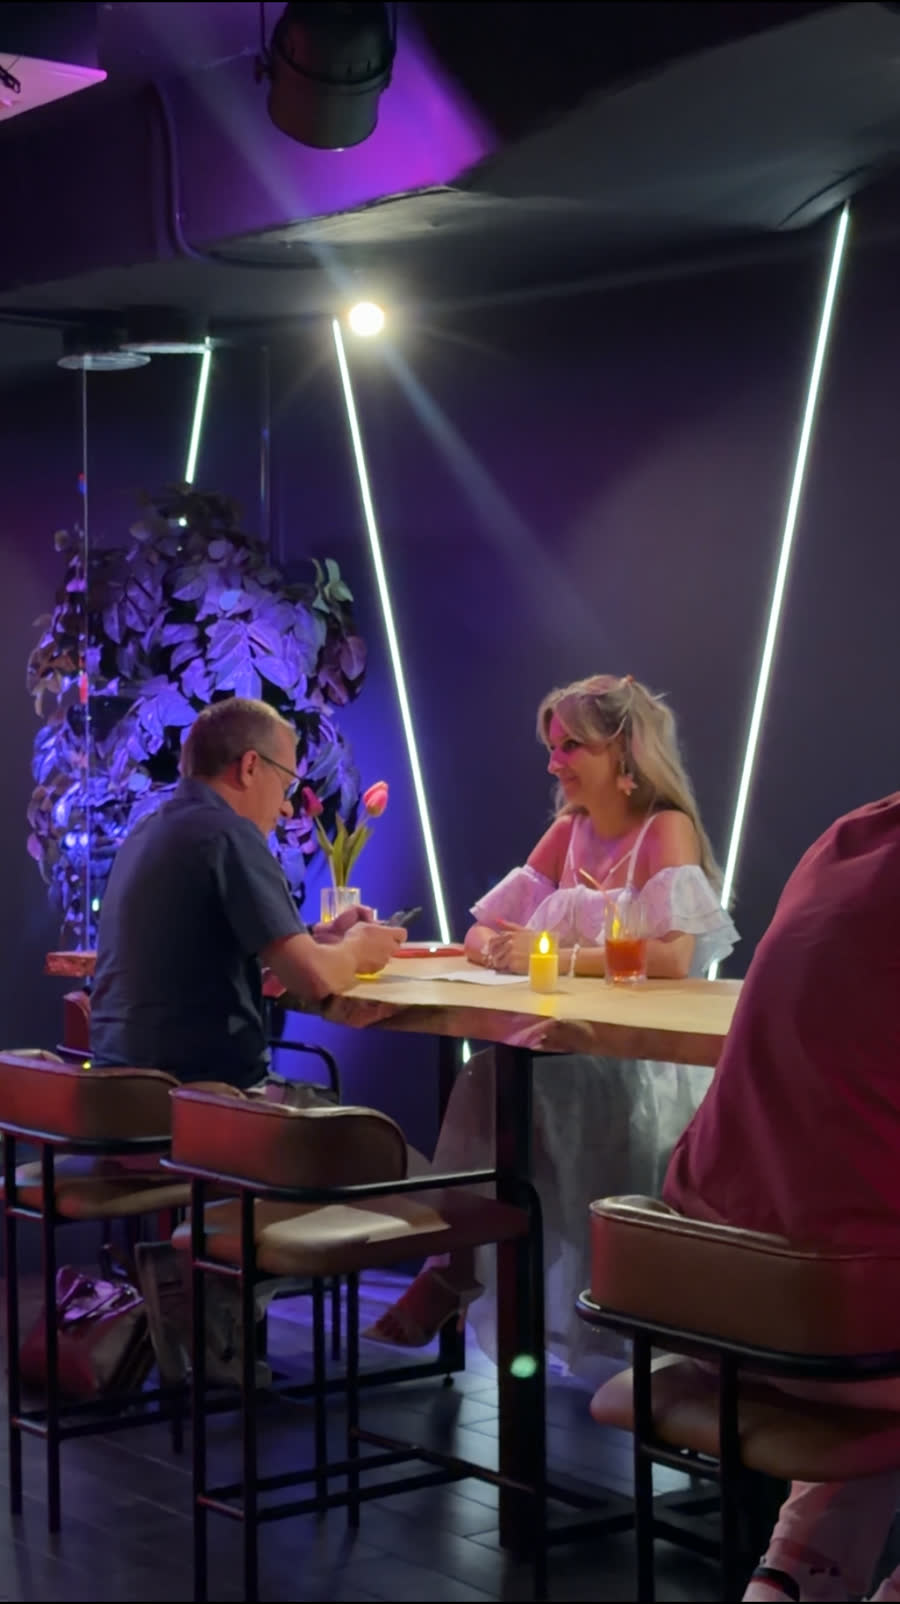
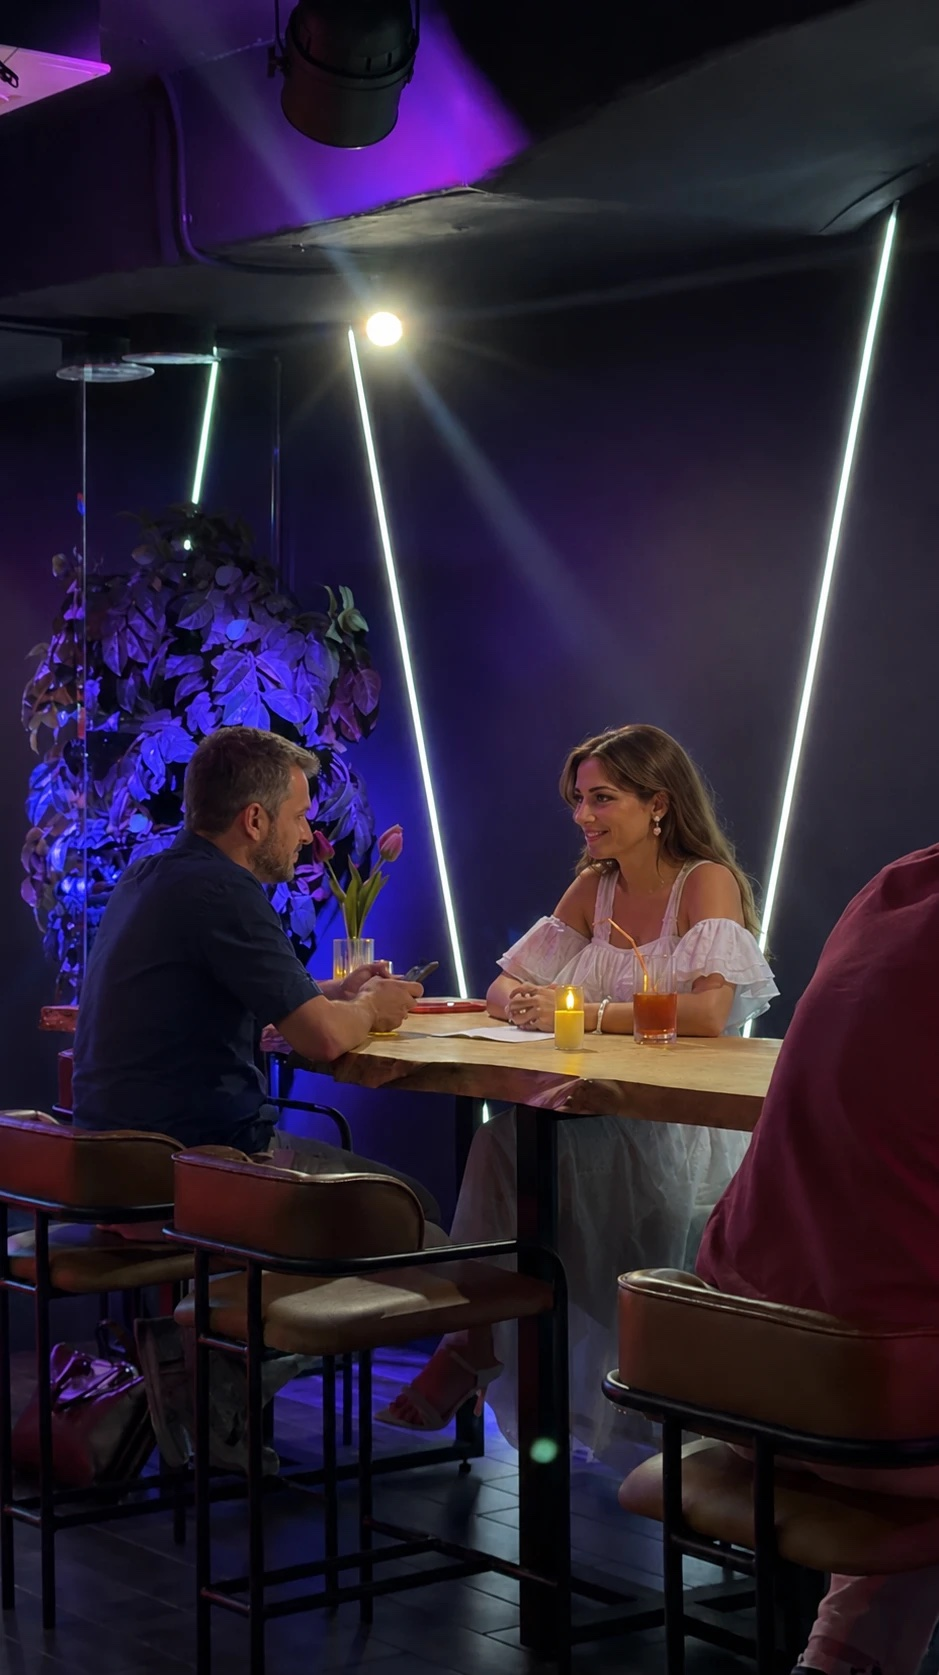
ad

diff --git a/index.html b/index.html
@@ -26,7 +26,7 @@
   <link rel="preconnect" href="https://fonts.googleapis.com">
   <link rel="preconnect" href="https://fonts.gstatic.com" crossorigin>
   <link href="https://fonts.googleapis.com/css2?family=Inter:wght@400;500;600;700&display=swap" rel="stylesheet">
-  <link rel="stylesheet" href="styles.css?v=20260811d">
+  <link rel="stylesheet" href="styles.css?v=20260812a">
   <script type="application/ld+json">
   {
     "@context": "https://schema.org",
@@ -80,7 +80,10 @@ _tmr.push({id: "3786513", type: "pageView", start: (new Date()).getTime()});
   <section class="hero">
     <div class="container hero__inner">
       <div class="hero__copy">
-      <h1>Быстрые свидания<br>в Ростове-на-Дону</h1>
+      <h1>
+        <span class="hero__title-desktop">Быстрые свидания<br>в Ростове-на-Дону</span>
+        <span class="hero__title-mobile">Один вечер — <em>десять знакомств</em> вживую</span>
+      </h1>
       <p class="hero__lead">
         За вечер вы общаетесь один на один с 10–15 участниками своего возраста —
         по пять минут с каждым. После вечера мы передаём контакты тем, кто понравился
@@ -125,61 +128,41 @@ _tmr.push({id: "3786513", type: "pageView", start: (new Date()).getTime()});
     <div class="container">
       <header class="section-head">
         <h2 id="dates-title">Ближайшие мероприятия</h2>
-        <p class="section-head__sub">Все вечера проходят в баре-ресторане GasGas, Кировский проспект, 51</p>
+        <p class="section-head__sub">Начало в 19:00, участие 2 300 ₽ · бар GasGas, Кировский проспект, 51</p>
       </header>
 
       <div class="dates__grid">
 
         <article class="event event--next">
-          <p class="event__flag">ближайший вечер</p>
-          <div class="event__head">
-            <p class="event__date"><b>15 августа</b><span>суббота</span></p>
-            <p class="event__age">35–55 лет</p>
+          <div class="event__info">
+            <p class="event__date"><b>15 августа</b><span>суббота · <span class="u-nowrap">35–55 лет</span></span></p>
+            <p class="event__status" data-availability="aug15">уточняйте наличие мест</p>
           </div>
-          <dl class="event__rows">
-            <div><dt>Начало</dt><dd>19:00</dd></div>
-            <div><dt>Место</dt><dd>GasGas, Кировский, 51</dd></div>
-            <div><dt>Участие</dt><dd><b>2 300 ₽</b></dd></div>
-            <div><dt>Места</dt><dd class="event__status" data-availability="aug15">уточняйте наличие мест</dd></div>
-          </dl>
-          <button class="btn btn--primary event__btn" type="button" data-open-booking data-event="aug15">Записаться на 15 августа</button>
+          <button class="btn btn--primary event__btn" type="button" data-open-booking data-event="aug15" aria-label="Записаться на 15 августа">Записаться</button>
         </article>
 
         <article class="event">
-          <div class="event__head">
-            <p class="event__date"><b>21 августа</b><span>пятница</span></p>
-            <p class="event__age">22–35 лет</p>
+          <div class="event__info">
+            <p class="event__date"><b>21 августа</b><span>пятница · <span class="u-nowrap">22–35 лет</span></span></p>
+            <p class="event__status" data-availability="aug21">уточняйте наличие мест</p>
           </div>
-          <dl class="event__rows">
-            <div><dt>Начало</dt><dd>19:00</dd></div>
-            <div><dt>Место</dt><dd>GasGas, Кировский, 51</dd></div>
-            <div><dt>Участие</dt><dd><b>2 300 ₽</b></dd></div>
-            <div><dt>Места</dt><dd class="event__status" data-availability="aug21">уточняйте наличие мест</dd></div>
-          </dl>
-          <button class="btn btn--outline event__btn" type="button" data-open-booking data-event="aug21">Записаться на 21 августа</button>
+          <button class="btn btn--outline event__btn" type="button" data-open-booking data-event="aug21" aria-label="Записаться на 21 августа">Записаться</button>
         </article>
 
         <article class="event">
-          <div class="event__head">
-            <p class="event__date"><b>22 августа</b><span>суббота</span></p>
-            <p class="event__age">22–35 лет</p>
+          <div class="event__info">
+            <p class="event__date"><b>22 августа</b><span>суббота · <span class="u-nowrap">22–35 лет</span></span></p>
+            <p class="event__status" data-availability="aug22">уточняйте наличие мест</p>
           </div>
           <p class="event__note">Вечер для тех, кто занимается спортом и ведёт активный образ жизни</p>
-          <dl class="event__rows">
-            <div><dt>Начало</dt><dd>19:00</dd></div>
-            <div><dt>Место</dt><dd>GasGas, Кировский, 51</dd></div>
-            <div><dt>Участие</dt><dd><b>2 300 ₽</b></dd></div>
-            <div><dt>Места</dt><dd class="event__status" data-availability="aug22">уточняйте наличие мест</dd></div>
-          </dl>
-          <button class="btn btn--outline event__btn" type="button" data-open-booking data-event="aug22">Записаться на 22 августа</button>
+          <button class="btn btn--outline event__btn" type="button" data-open-booking data-event="aug22" aria-label="Записаться на 22 августа">Записаться</button>
         </article>
 
       </div>
 
       <p class="dates__note">
-        Состав каждого вечера мы собираем вручную: примерно поровну мужчин и женщин,
-        одна возрастная группа. После заявки администратор свяжется с вами, подтвердит
-        место и подскажет, как оплатить.
+        Группы собираем вручную: поровну мужчин и женщин, одна возрастная группа.
+        После заявки администратор подтвердит место и подскажет, как оплатить.
       </p>
     </div>
   </section>
@@ -227,23 +210,23 @@ _tmr.push({id: "3786513", type: "pageView", start: (new Date()).getTime()});
       </header>
       <div class="photos__grid">
         <figure class="photo">
-          <img src="media/gallery-guests.jpg" width="736" height="1600" loading="lazy" decoding="async"
-               alt="Мужчина и женщина разговаривают за столиком с тюльпанами">
+          <img src="media/gallery-date-white.jpg" width="939" height="1675" loading="lazy" decoding="async"
+               alt="Мужчина и женщина разговаривают за столиком с тюльпанами на вечере знакомств">
           <figcaption>Разговор один на один</figcaption>
         </figure>
         <figure class="photo">
-          <img src="media/gallery-room-wide.jpg" width="900" height="1572" loading="lazy" decoding="async"
+          <img src="media/gallery-evening.jpg" width="738" height="1600" loading="lazy" decoding="async"
+               alt="Участники вечера знакомств общаются в лаунж-зоне бара">
+          <figcaption>Общение в лаунж-зоне</figcaption>
+        </figure>
+        <figure class="photo">
+          <img src="media/gallery-host.jpg" width="736" height="1600" loading="lazy" decoding="async"
                alt="Зал бара во время вечера знакомств: пары сидят за отдельными столиками">
           <figcaption>Зал во время вечера</figcaption>
         </figure>
         <figure class="photo">
-          <img src="media/gallery-tables.jpg" width="787" height="1400" loading="lazy" decoding="async"
-               alt="Столик с номером 15: свеча, тюльпаны, карточка участника и ручка">
-          <figcaption>Столик с номером и карточкой для отметок</figcaption>
-        </figure>
-        <figure class="photo">
-          <img src="media/strip-4.jpg" width="736" height="920" loading="lazy" decoding="async"
-               alt="Участники вечера знакомств разговаривают за столиками">
+          <img src="media/gallery-guests.jpg" width="736" height="1600" loading="lazy" decoding="async"
+               alt="Мужчина и женщина разговаривают за столиком с тюльпанами">
           <figcaption>Разговоры за столиками</figcaption>
         </figure>
       </div>
@@ -394,12 +377,12 @@ _tmr.push({id: "3786513", type: "pageView", start: (new Date()).getTime()});
           <label class="event-option">
             <input type="radio" name="event" value="aug15">
             <span class="event-option__date">сб, 15 августа</span>
-            <span class="event-option__group">35–55 лет</span>
+            <span class="event-option__group">35–55 лет</span>
           </label>
           <label class="event-option">
             <input type="radio" name="event" value="aug21">
             <span class="event-option__date">пт, 21 августа</span>
-            <span class="event-option__group">22–35 лет</span>
+            <span class="event-option__group">22–35 лет</span>
           </label>
           <label class="event-option">
             <input type="radio" name="event" value="aug22">

diff --git a/styles.css b/styles.css
@@ -290,6 +290,26 @@ details:focus-visible {
 
 .hero h1 { margin-bottom: 18px; }
 
+/* На телефоне заголовок другой: акцентная фраза курсивной антиквой */
+.hero__title-mobile { display: none; }
+
+@media (max-width: 560px) {
+  .hero__title-desktop { display: none; }
+
+  .hero__title-mobile {
+    display: block;
+    font-family: Georgia, "Times New Roman", serif;
+    font-size: clamp(1.6rem, 6.8vw, 2.2rem);
+    line-height: 1.15;
+    letter-spacing: -0.01em;
+  }
+
+  .hero__title-mobile em {
+    font-style: italic;
+    color: var(--accent);
+  }
+}
+
 .hero__lead {
   font-size: clamp(16.5px, 2.2vw, 18.5px);
   color: var(--text-soft);
@@ -378,21 +398,28 @@ details:focus-visible {
 
 .dates__grid {
   display: grid;
-  gap: 16px;
+  gap: 10px;
+  max-width: 640px;
 }
 
-@media (min-width: 860px) {
-  .dates__grid { grid-template-columns: repeat(3, minmax(0, 1fr)); }
-}
-
-/* Карточка вечера — светло-серая плитка внутри белой панели */
+/* Карточка вечера — компактный ряд: кнопка напротив даты, подпись и статус
+   во всю ширину. Общие время, место и цена вынесены в подзаголовок секции */
 .event {
-  display: flex;
-  flex-direction: column;
-  padding: 20px;
+  display: grid;
+  grid-template-columns: minmax(0, 1fr) auto;
+  align-items: center;
+  gap: 2px 14px;
+  padding: 14px 16px;
   background: var(--surface-soft);
   border-radius: var(--radius);
 }
+
+.event__info, .event__date { display: contents; }
+
+.event__date > span,
+.event__status { grid-column: 1 / -1; }
+
+.event__btn { grid-column: 2; grid-row: 1; }
 
 /* Ближайший вечер выделен акцентной обводкой — единственный акцент в сетке */
 .event--next {
@@ -400,94 +427,47 @@ details:focus-visible {
   box-shadow: inset 0 0 0 2px var(--accent);
 }
 
-.event__flag {
-  align-self: flex-start;
-  margin-bottom: 12px;
-  padding: 5px 12px;
-  border-radius: var(--radius-pill);
-  background: var(--accent);
-  color: var(--on-accent);
-  font-size: 12.5px;
-  font-weight: 600;
-}
-
-.event__head {
-  display: flex;
-  align-items: center;
-  justify-content: space-between;
-  flex-wrap: wrap;
-  gap: 8px;
-}
-
 .event__date b {
   display: block;
-  font-size: 1.6rem;
+  font-size: 1.2rem;
   font-weight: 700;
   letter-spacing: -0.02em;
-  line-height: 1.1;
+  line-height: 1.2;
 }
 
-.event__date span {
+.event__date > span {
   display: block;
-  font-size: 14px;
+  font-size: 13.5px;
   color: var(--text-soft);
 }
-
-.event__age {
-  padding: 6px 13px;
-  border-radius: var(--radius-pill);
-  background: var(--surface);
-  color: var(--text);
-  font-size: 14px;
-  font-weight: 600;
-  white-space: nowrap;
-}
-
-.event--next .event__age { background: var(--accent); color: var(--on-accent); }
 
 .event__note {
-  margin-top: 12px;
-  font-size: 14.5px;
+  grid-column: 1 / -1;
+  margin: 0;
+  font-size: 13px;
   color: var(--text-soft);
 }
 
-/* Параметры вечера — белая плашка со скруглением вместо строк на линейках */
-.event__rows {
-  margin: 16px 0 0;
-  padding: 4px 14px;
-  background: var(--surface);
-  border-radius: var(--radius-sm);
+.u-nowrap { white-space: nowrap; }
+
+.event__status {
+  margin: 0;
+  font-size: 13px;
+  color: var(--text-soft);
 }
-
-.event__rows > div {
-  display: flex;
-  justify-content: space-between;
-  gap: 14px;
-  padding: 9px 0;
-  font-size: 15px;
-}
-
-.event__rows > div + div { border-top: 1px solid var(--line); }
-
-.event__rows dt { color: var(--text-soft); flex-shrink: 0; }
-.event__rows dd { margin: 0; text-align: right; }
-.event__rows dd b { font-weight: 600; }
-
-.event__status { color: var(--text-soft); }
 .event__status--few { color: var(--accent-strong); font-weight: 600; }
 .event__status--closed { color: var(--danger); }
 
-.event__btn { margin-top: 16px; width: 100%; }
+.event__btn { flex-shrink: 0; }
+
+/* На телефоне кнопка компактнее — дате и возрасту хватает одной строки */
+@media (max-width: 560px) {
+  .event__btn { padding: 10px 18px; min-height: 42px; font-size: 15px; }
+}
 
 /* Внутри серой плитки вторичная кнопка — белая заливка, а не контур */
 .event .btn--outline { background: var(--surface); border-color: transparent; }
 .event .btn--outline:hover { color: var(--accent); }
-
-/* auto сверху: у карточек разной высоты кнопки стоят по одной линии */
-@media (min-width: 860px) {
-  .event__rows { margin-bottom: 16px; }
-  .event__btn { margin-top: auto; }
-}
 
 .dates__note {
   margin-top: 20px;
